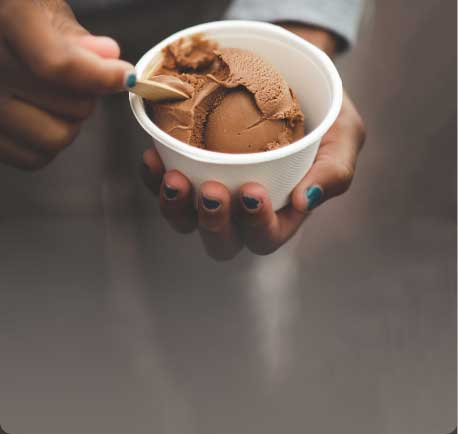
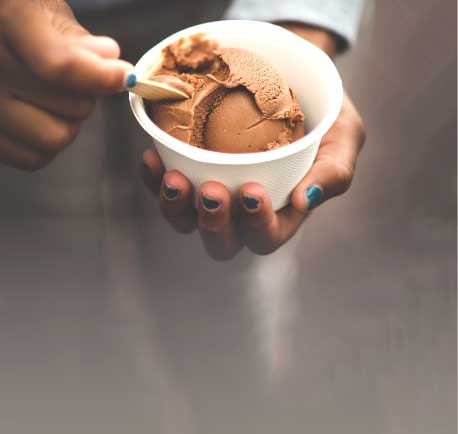
Adjustement on photos and overlays

diff --git a/app/sass/_partials/_base.scss b/app/sass/_partials/_base.scss
@@ -19,6 +19,10 @@ html, body {
    color: white;
    text-align: center;
 
+   img {
+      border-radius: $bd-radius;
+   }
+
    .btn-lg {
       padding: .65rem 2rem;
       border-radius: 1.5rem;
@@ -68,7 +72,7 @@ html, body {
       transform: translateY(-3px) translateZ(0);
 
       .smallCover__overlay {
-         background-color: rgba(0, 0, 0, .40);
+         background-color: rgba(0, 0, 0, .43);
       }
    }
 }

diff --git a/app/sass/_partials/_covers.scss b/app/sass/_partials/_covers.scss
@@ -10,6 +10,7 @@
    height: auto;
 
    &.generalCover--fill {
+      margin-bottom: 60px;
       height: 478px;
       color: white;
       text-align: center;
@@ -48,7 +49,7 @@
    &__overlay {
       z-index: 3;
       border-radius: $bd-radius;
-      background-color: rgba(0, 0, 0, .25);
+      background-color: rgba(0, 0, 0, .3);
 
       @include overlay;
    }

diff --git a/app/sass/_variables.scss b/app/sass/_variables.scss
@@ -7,7 +7,7 @@ $main-red: #FF525B;
 $main-black: #353535;
 
 // Border radius
-$bd-radius: 1.2rem;
+$bd-radius: 1.25rem;
 
 // Shadows
 $df-shadow: 2px 2px 0 rgba(0, 0, 0, 0.5);

diff --git a/app/sass/_partials/_large-cover.scss b/app/sass/_partials/_large-cover.scss
@@ -30,7 +30,7 @@
    }
 
    &:hover .largeCover__overlay {
-      background-color: rgba(0, 0, 0, .40);
+      background-color: rgba(0, 0, 0, .43);
    }
 
    &__inner {
